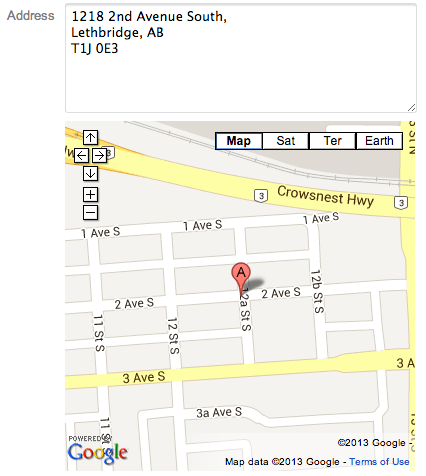
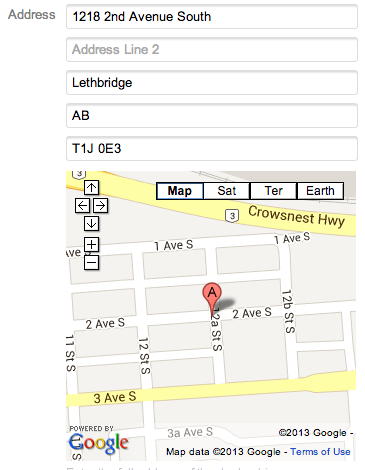
Update field type so each address line is now its own text field (i.e., address line 1/2, city, state/province, postcode).

Changed region(s): [[0.1507, 0.1489, 0.9945, 1.0], [0.0, 0.0, 0.9644, 0.1191], [0.3315, 0.983, 0.3616, 1.0]]

diff --git a/perch/addons/fieldtypes/geocode/geocode.class.php b/perch/addons/fieldtypes/geocode/geocode.class.php
@@ -8,6 +8,19 @@ use Geocoder\Exception\ChainNoResultException;
 class PerchFieldType_geocode extends PerchAPI_FieldType
 {
 	/**
+	 * The field names and placeholders.
+	 *
+	 * @var array
+	 */
+	protected static $fields = array(
+		'addr1' 	=> 'Address Line 1',
+		'addr2' 	=> 'Address Line 2',
+		'city'		=> 'City',
+		'state'		=> 'State / Province',
+		'postcode' 	=> 'Postal Code',
+	);
+
+	/**
 	 * Output the form fields for the edit page
 	 *
 	 * @param array $details
@@ -43,17 +56,30 @@ class PerchFieldType_geocode extends PerchAPI_FieldType
 			$iframe .= '<div class="clear"></div>';
 		}
 
-		// Build Text Area.
-		$id 	= PerchUtil::html($this->Tag->input_id(), true);
-		$value  = PerchUtil::html((isset($details['address']['raw']) ? $details['address']['raw'] : ''), true);
-		$class  = PerchUtil::html($this->Tag->class, true);
+		// Build Inputs.
+		$id 		= PerchUtil::html($this->Tag->input_id(), true);
+		$class  	= PerchUtil::html($this->Tag->class, true);
+		$required 	= ($this->Tag->required == 'true' && defined('PERCH_HTML5') && PERCH_HTML5 == true);
+		$value 		= PerchUtil::html((isset($details['address']['address']) ? $details['address']['address'] : 'noop'), true);
 
-		return <<< TEXTAREA
-		<textarea id="{$id}" name="{$id}" class="text geocode {$class}" rows="6" cols="40">{$value}</textarea>
-		<div class="clear"></div>
-		{$error}
-		{$iframe}
-TEXTAREA;
+		$input = <<< INPUT
+		<input type="text" id="{$id}" name="{$id}" class="text" style="display: none;" value="{$value}" />
+INPUT;
+
+		foreach (self::$fields as $field => $placeholder) {
+			$validate 	= ($required && $field != 'addr2' ? 'required' : '');
+			$value 		= PerchUtil::html((isset($details['address'][$field]) ? $details['address'][$field] : ''), true);
+
+			$input .= <<< INPUT
+			<input type="text" id="{$id}_{$field}" name="{$id}_{$field}" class="text geocode {$class}" placeholder="{$placeholder}" value="{$value}" {$validate} />
+INPUT;
+
+		}
+
+		$input .= $error;
+		$input .= $iframe;
+
+		return $input;
 	}
 
 	/**
@@ -70,11 +96,17 @@ TEXTAREA;
 			$post = $_POST;
 		}
 
-		// Extract and clean up the value.
-		$id 	= $this->Tag->id();
-		$raw 	= (isset($post[$id]) ? $post[$id] : '');
-		$clean  = preg_replace(array('/\s+/', '/\n+/', '/\v/'), array(' ', ' ', ''), trim($raw));
-		$clean  = trim($clean);
+		// Extract and clean up the values.
+		$id  = $this->Tag->id();
+		$raw = (isset($post[$id]) ? $post[$id] : '');
+
+		$address = array();
+		foreach (self::$fields as $field => $placeholder) {
+			$key = 'address' . '_' . $field;
+			$address[$field] = (isset($post[$key]) ? trim($post[$key]) : '');
+		}
+
+		$clean = implode("\n", array_filter($address));
 
 		// Determine the adapter.
 		$adapter = $this->get_adapter(trim($this->Tag->adapter));
@@ -107,7 +139,11 @@ TEXTAREA;
 
 		// Build Results Array.
 		$store = array();
-		$store['raw'] = $raw;
+		$store['address'] = $clean;
+
+		foreach ($address as $field => $value) {
+			$store[$field] = $value;
+ 		}
 
 		if (! $result) {
 			$store['error'] = 'This address could not be geocoded.';
@@ -133,7 +169,7 @@ TEXTAREA;
 			$raw = $this->get_raw();
 		}
 
-		return $raw;
+		return $this->process_address($raw);
 	}
 
 	/**
@@ -148,7 +184,7 @@ TEXTAREA;
 			$raw = $this->get_raw();
 		}
 
-		return $raw['raw'];
+		return $this->process_address($raw);
 	}
 
 	/**
@@ -168,40 +204,45 @@ TEXTAREA;
 	{
 		$css = <<< CSS
 		<style>
-			textarea.geocode { 		width: 340px; height: 100px; }
-			iframe.location { 		width: 350px; height: 350px; }
+			input.geocode { 		width: 280px; display: block; margin-bottom: 10px; margin-left: 230px; }
+			iframe.location { 		width: 290px; height: 290px; }
 			p.error-geocode { 		color: red; }
+
+			@media screen and (max-width: 1060px) {
+				form input.geocode,
+				form iframe.location {
+					margin-left: 0;
+				}
+			}
 		</style>
 
 CSS;
-
-		$js = <<< JS
-		<script>
-			$(document).ready(function() {
-				$('#content-edit').on('submit', function(event) {
-					var error = false;
-					$('textarea.geocode').each(function() {
-						if ($(this).val() == '') {
-							$(this).parents('div.field').addClass('error');
-							error = true;
-						}
-					});
-
-					if (error) {
-						event.preventDefault();
-					}
-				});
-			});
-		</script>
-
-JS;
 
 		$siblings = $this->get_sibling_tags();
 		if (is_array($siblings)) {
 			$perch = Perch::fetch();
 			$perch->add_foot_content($css);
-			$perch->add_foot_content($js);
 		}
+	}
+
+	/**
+	 * Process the address from an array into a newline separated string.
+	 *
+	 * @param array
+	 * @return string
+	 **/
+	private function process_address($raw)
+	{
+		if (! is_array($raw)) {
+			$raw = array($raw);
+		}
+
+		$address = array();
+		foreach (self::$fields as $field => $placeholder) {
+			$address[$field] = (isset($raw[$field]) ? $raw[$field] : '');
+		}
+
+		return implode("\n", array_filter($address));
 	}
 
 	/**

diff --git a/README.md b/README.md
@@ -62,18 +62,26 @@ define('BING_MAPS_LOCALE', '');
 
 Check out the [PHP Geocoder](https://github.com/geocoder-php) documentation for more information providers and what parameters their constructors accept.
 
+Note: The specified HTTP adapter is automatically passed to the provider constructor, you only need to configure the remaining parameters.
+
 # Accessing Latitude/Longitude Data
 
 The latitude and longitude values, as well as the address entered by the user and any error messages, are stored in the item's JSON:
 
 ```js
 {
-	"address": {
-		"raw": '1218 2nd Avenue South, Lethbridge, AB T1J 0E3',
-		"latitude": 49.6974029,
-		"longitude": -112.8277358,
-		"error": ''
-	}
+    address":
+    {
+        "address":      "1218 2nd Avenue South\nLethbridge\nAlberta\nT1J 0E3",
+        "addr1":        "1218 2nd Avenue South",
+        "addr2":        "",
+        "city":         "Lethbridge",
+        "state":        "Alberta",
+        "postcode":     "T1J 0E3",
+        "error":        "",
+        "latitude":     49.6974029,
+        "longitude":    -112.8277358
+    }
 }
 ```
 
@@ -95,7 +103,15 @@ print_r($addresses);
             [_title] => Media 32
             [address] => Array
                 (
-                    [raw] => 1218 2nd Avenue South, Lethbridge, AB T1J 0E3
+                    [address] => 1218 2nd Avenue South
+                                 Lethbridge
+                                 Alberta
+                                 T1J 0E3
+                    [addr1] => 1218 2nd Avenue South
+                    [addr2] =>
+                    [city] => Lethbridge
+                    [state] => Alberta
+                    [postcode] => T1J 0E3
                     [error] =>
                     [latitude] => 49.6974029
                     [longitude] => -112.8277358
